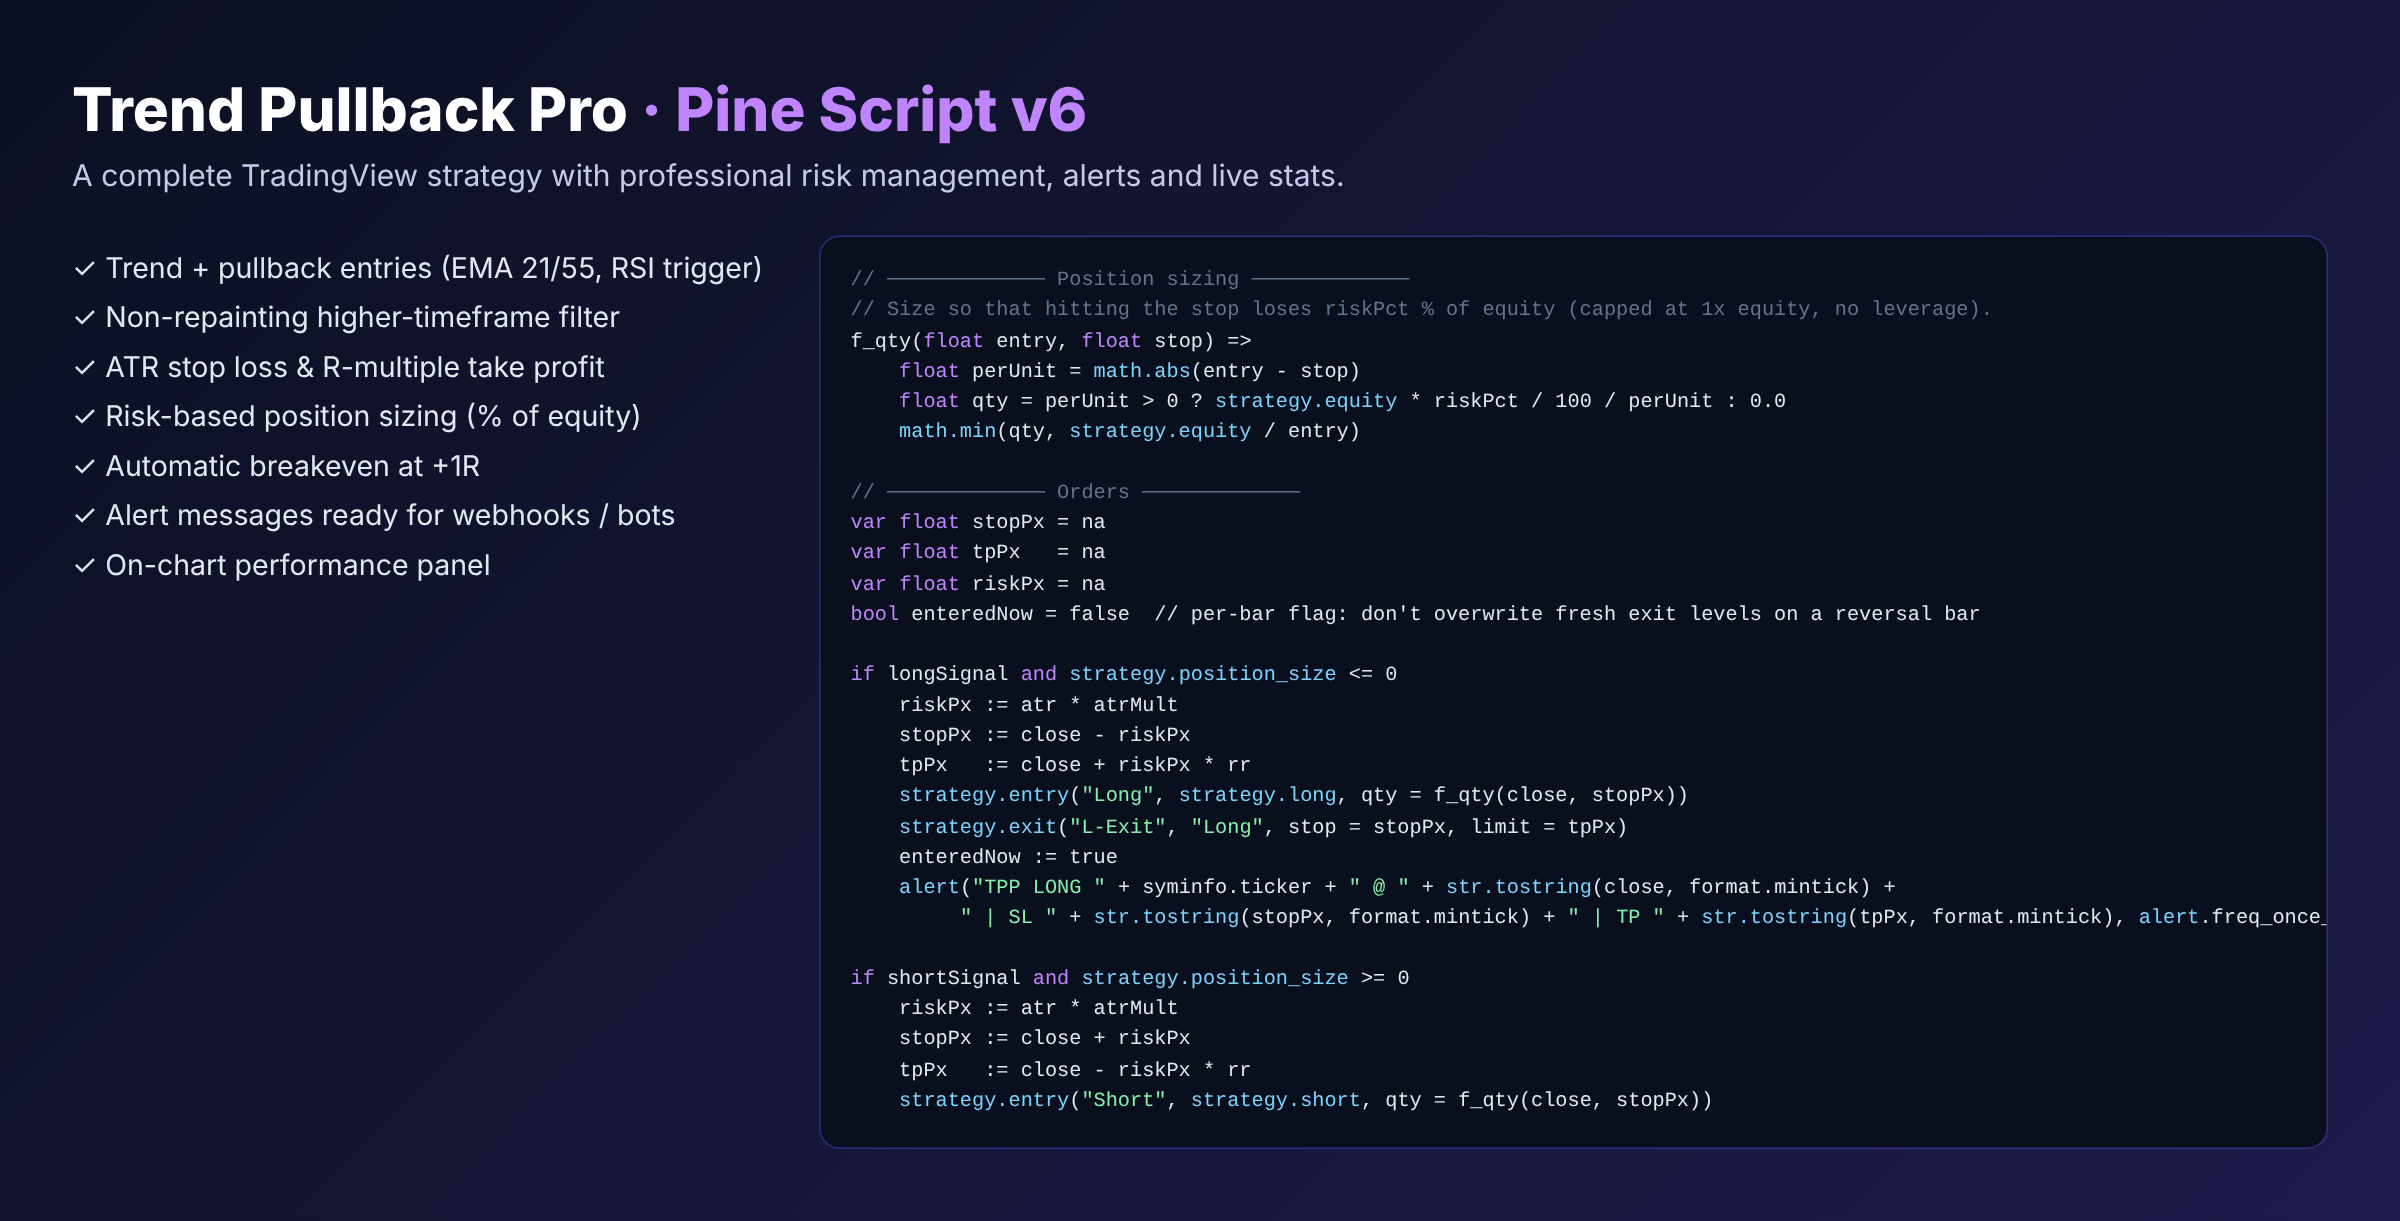
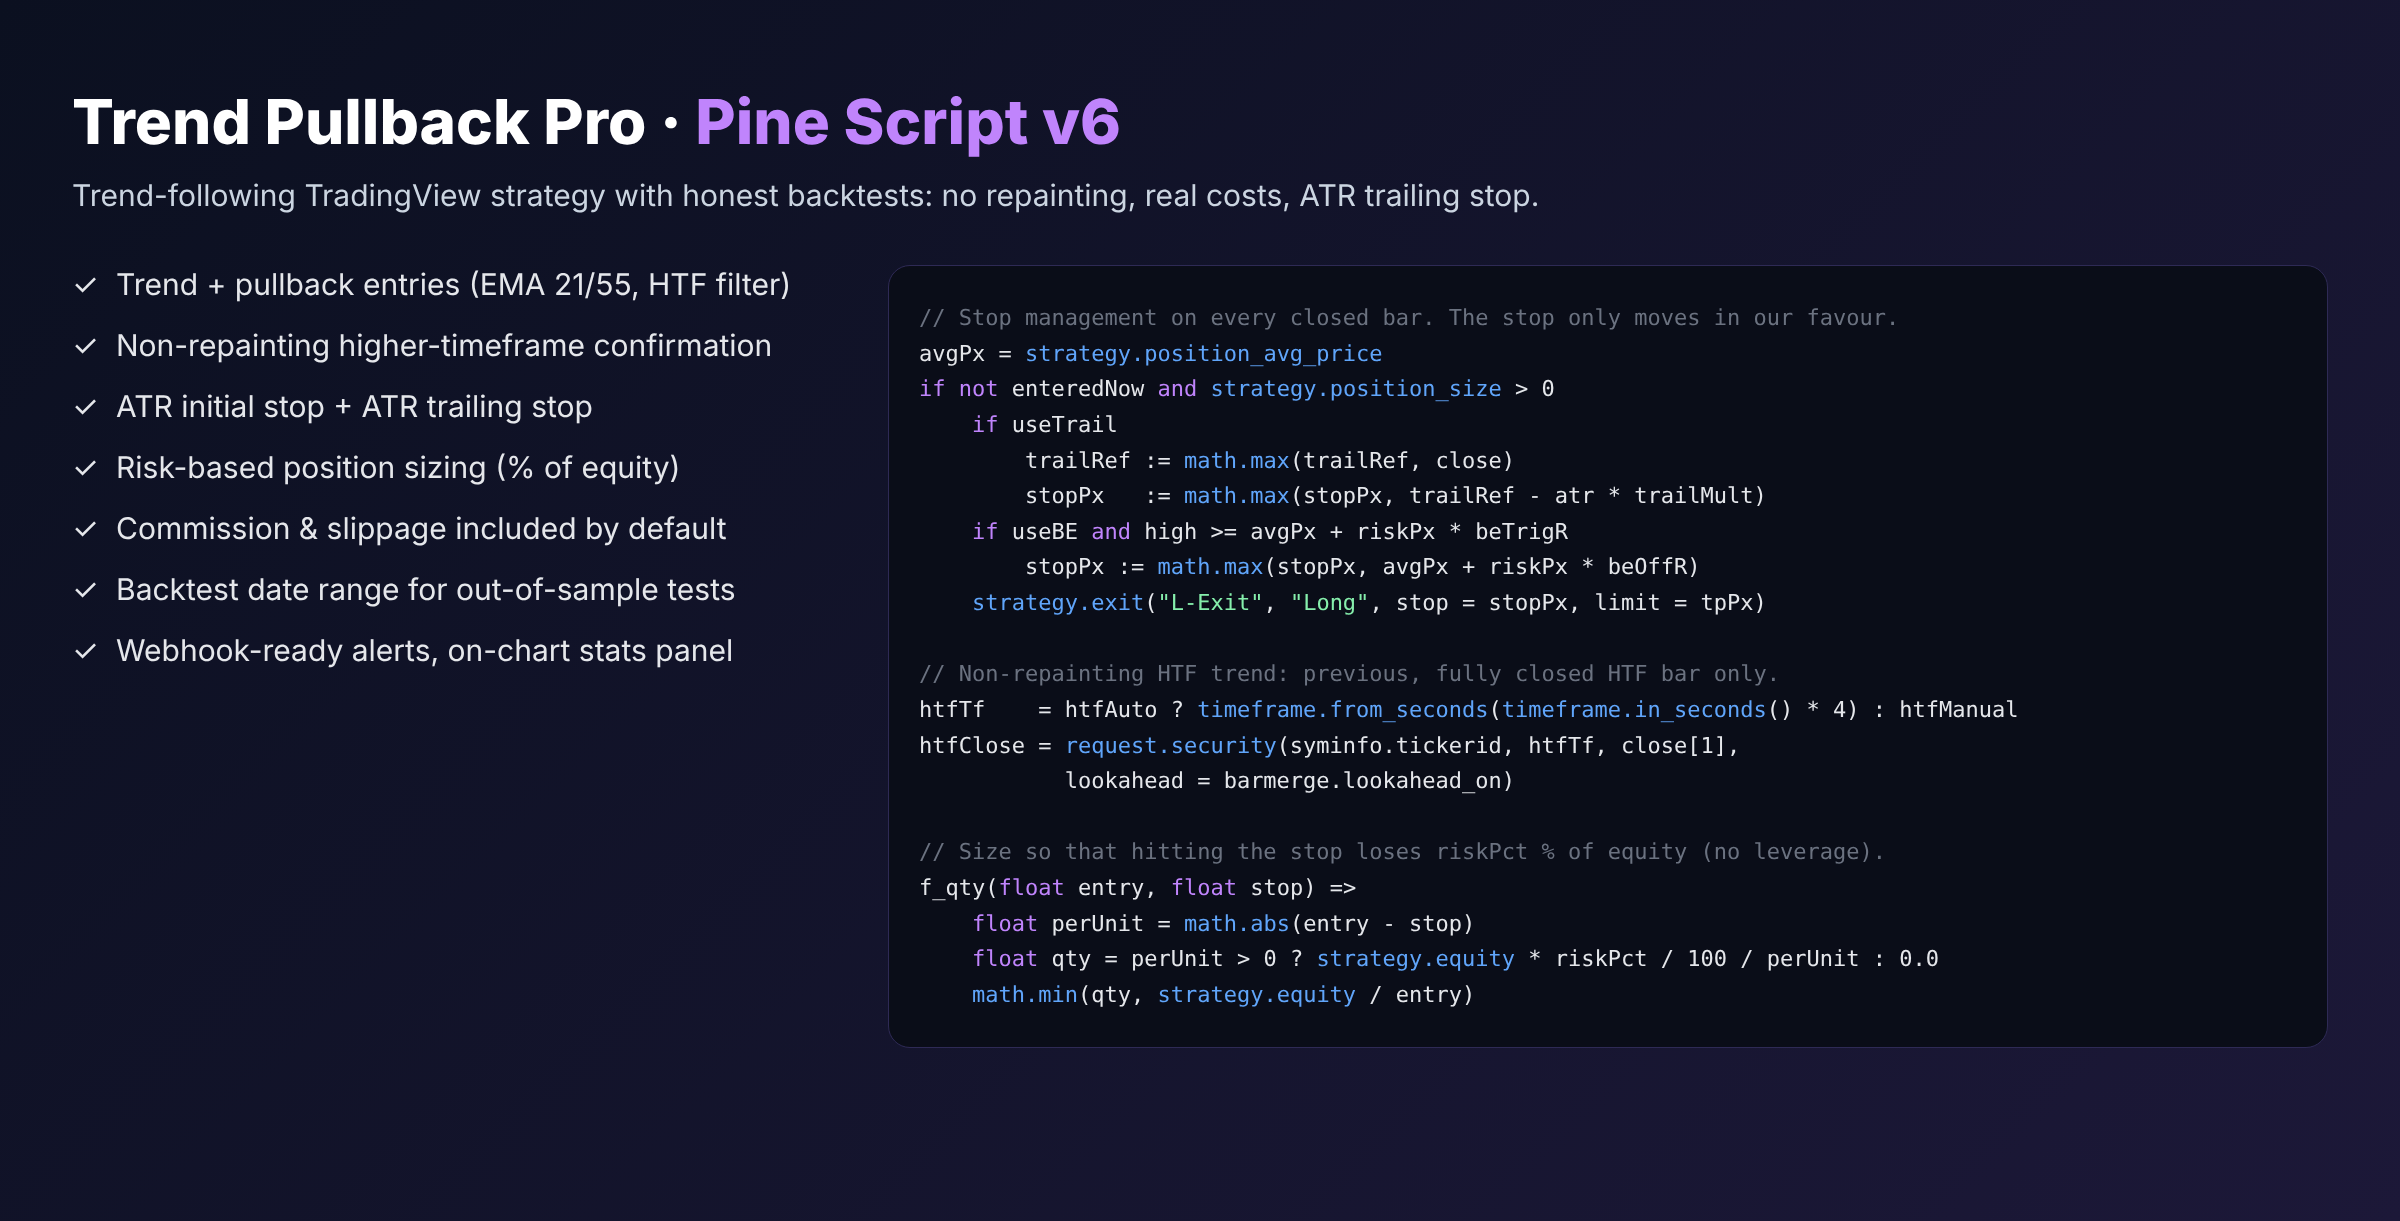
Rework Pine strategy: pullback reclaim entry, ATR trailing stop, honest results
Replace RSI trigger, fixed 2R target and +1R breakeven (negative expectancy
after costs) with a pullback-reclaim entry and ATR trailing stop. Add backtest
date range, auto HTF, percent-based stats panel and a README results table
from an independent cross-check, including markets where it loses.

Claude-Session: https://claude.ai/code/session_018p7qcrMKbrLRXKrByArqTS

diff --git a/03-pine-trend-strategy/README.md b/03-pine-trend-strategy/README.md
@@ -1,21 +1,60 @@
 # Trend Pullback Pro (TradingView Pine Script v6)
 
-A complete trend-following strategy for TradingView with professional risk management.
+A trend-following strategy for TradingView with professional risk management, built to give
+**honest** backtests: no repainting, no lookahead, and trading costs included by default.
 
 ![cover](screenshots/cover.png)
 
 ## Logic
-- **Trend:** fast EMA (21) above slow EMA (55), price above the slow EMA, and the higher-timeframe (default 4h) close above its EMA
-- **Entry:** price pulled back to the fast EMA within the last N bars, then RSI crosses back over 50 (mirror rules for shorts)
-- **Exit:** ATR-based stop loss, take profit at a configurable R multiple, optional breakeven at +1R
-- **Sizing:** each trade risks a fixed % of equity (default 1%), capped at 1x equity
-- **Non-repainting:** the HTF filter only uses confirmed higher-timeframe bars
-- **Alerts:** `alert()` messages with ticker, entry, SL and TP, ready for webhooks / trading bots
-- **Panel:** closed trades, win rate, profit factor, net profit, max drawdown and current trend on the chart
+- **Trend:** fast EMA (21) above slow EMA (55), price above the slow EMA, and the higher-timeframe
+  close above its own EMA (auto HTF = 4× the chart timeframe). Mirror rules for shorts.
+- **Entry:** price pulled back to the fast EMA within the last N bars, then a bar closes above the
+  previous bar's high and back above the fast EMA (the pullback is ending).
+- **Initial stop:** 1.5 × ATR from the signal close.
+- **Exit:** ATR trailing stop (3 × ATR from the best close since entry). The stop only moves in
+  the trade's favour. Optional fixed take profit (R multiple) and optional breakeven with a small
+  offset that covers commissions; both are off by default.
+- **Sizing:** each trade risks a fixed % of equity (default 1%), capped at 1× equity (no leverage).
+- **Non-repainting:** the HTF filter reads only the previous, fully closed HTF bar
+  (`close[1]` with `lookahead_on`, the documented safe pattern). Orders fill on the next bar's open.
+- **Costs:** 0.05% commission per side and 2 ticks slippage by default.
+- **Backtest window:** start and end date inputs for out-of-sample checks.
+- **Alerts:** `alert()` messages with ticker, entry and stop, ready for webhooks or trading bots.
+- **Panel:** closed trades, win rate, profit factor, net profit %, max drawdown %, risk per trade
+  and current trend on the chart.
 
-All parameters are inputs, grouped as Trend / Entry / Risk management / Display.
-Commission (0.05%) and slippage are included so backtests are not over-optimistic.
+## How it behaves (independent cross-check)
+The rules were replicated in Python (next-bar-open fills, intrabar stop handling, commission on
+both sides) and run on public sample data. TradingView's own data feed and fill model differ a
+little, so treat these as indications, not promises.
+
+| Market (sample) | Timeframe | Net | Profit factor | Max DD | Trades |
+|---|---|---|---|---|---|
+| BTCUSD 2020–2026 | 1D | +54% | 2.01 | 9.9% | 63 |
+| GOOG 2004–2013 | 1D | +35% | 1.84 | 7.7% | 53 |
+| BTCUSDT 2020 (4 months) | 1H | +19% | 1.53 | 8.5% | 69 |
+| BTCUSDT 2025–2026 (bear phase) | 4H | +8% | 1.43 | 11.4% | 26 |
+| SPY 2008–2017 | 1D | +1% | 1.02 | 17.4% | 76 |
+| BTCUSDT 2026 | 15m | −8% | 0.21 | 10.2% | 26 |
+| EURUSD / GBPUSD 2017–2020 (0.005% cost) | 1H | −1% to −4% | 0.91–0.95 | up to 7.7% | 145–388 |
+
+What this shows, plainly:
+- It works where markets trend (crypto, trending stocks on 4H/1D) and does **not** beat buy and
+  hold in a strong bull market. Its job is to cut the drawdown, not to outrun the market.
+- It is flat on a choppy index, loses on 15-minute charts (the commission is too large compared
+  with the stop distance) and has no edge on forex H1, even with low forex costs. That is a
+  property of trend following on those markets, not a bug.
+- Results were stable when the stop (1.5–2 ATR) and trailing distance (2.5–3.5 ATR) were changed,
+  so the defaults are not curve-fitted to one lucky setting.
+
+The previous version (RSI trigger, fixed 2R target, breakeven at exactly +1R) lost money on most
+of these samples: breakeven exits at the entry price still paid two commissions, and the fixed
+target cut the large winners a trend system lives on. It was replaced by this version.
 
 ## Use it
 TradingView → Pine Editor → paste `trend_pullback_pro.pine` → *Add to chart*.
-Results depend on market and timeframe; this is a demonstration of the engineering, not financial advice.
+Recommended start: BTCUSD or a trending stock on the 4H or 1D chart. Set commission and slippage
+(*Settings → Properties*) to your broker's real values before judging results.
+
+This is a demonstration of strategy engineering, not financial advice. Past results do not
+guarantee future returns.
